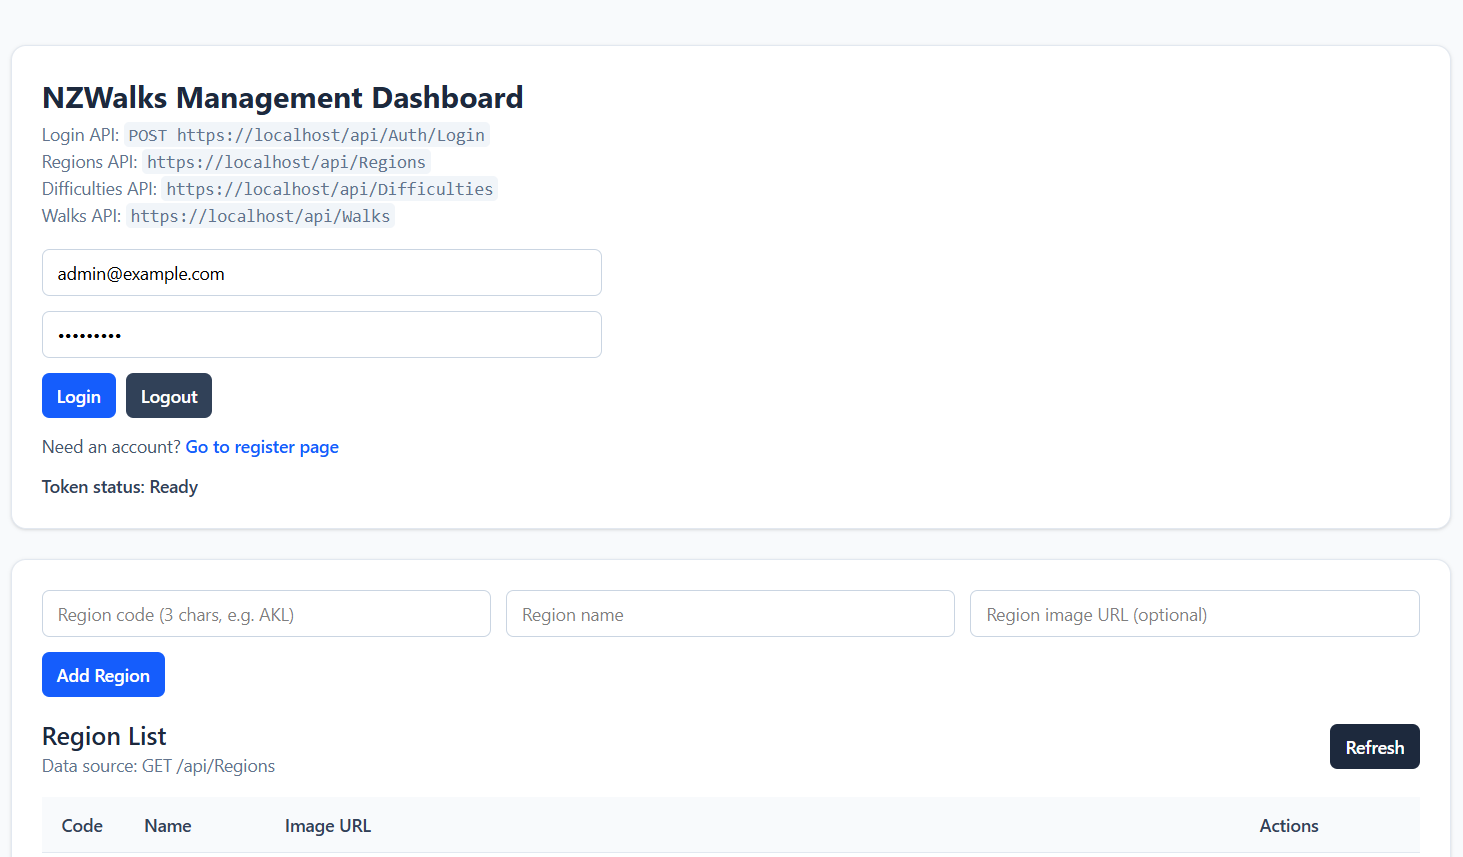
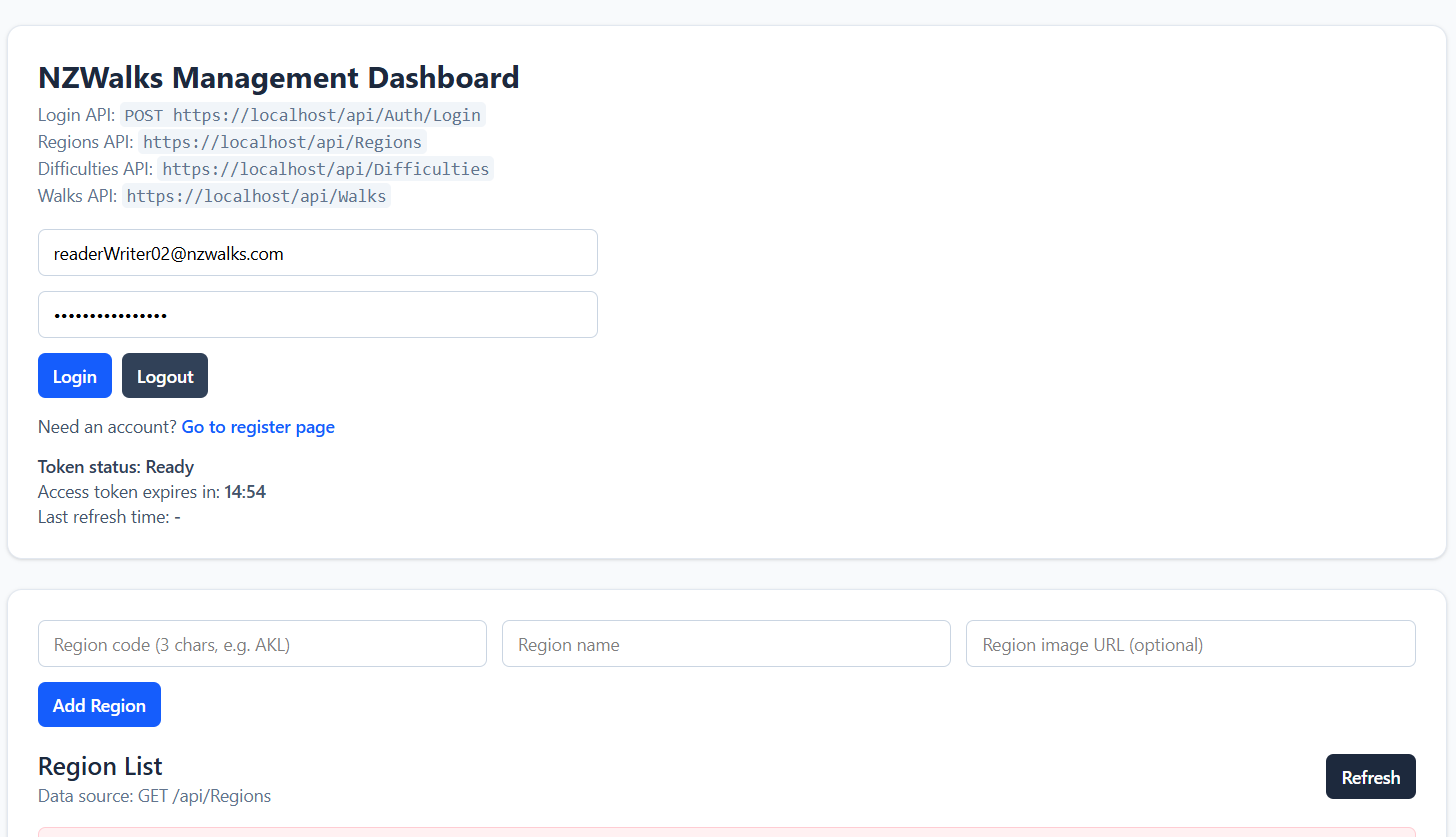
1. 更新 README.md 檔案。

Changed region(s): [[0.0, 0.6523, 0.989, 1.0], [0.0, 0.0621, 0.4018, 0.6213]]

diff --git a/README.md b/README.md
@@ -1,6 +1,7 @@
 # NZWalks
 
-ASP.NET Core Web API + React (Vite + TypeScript) full-stack project for managing NZ regions, walk difficulties, and walks.
+NZWalks is a full-stack project built with ASP.NET Core Web API and React (Vite + TypeScript) for managing NZ regions, walk difficulties, and walks.  
+It includes role-based authorization, JWT + Refresh Token authentication, and a dashboard-style frontend for CRUD operations.
 
 ## Project Structure
 
@@ -10,18 +11,63 @@ ASP.NET Core Web API + React (Vite + TypeScript) full-stack project for managing
 - `docker-compose.yml` - Multi-container local deployment (nginx + api + mssql)
 - `logs/` - Runtime logs for API, Nginx, and MSSQL
 
-## Features
+## Core Features
 
 - JWT Login/Register (`/api/Auth/Login`, `/api/Auth/Register`)
+- Refresh token lifecycle:
+  - Auto refresh access token and refresh token (`/api/Auth/Refresh-Token`)
+  - Revoke refresh token on logout (`/api/Auth/Logout`)
 - Role-based API access (`Reader`, `Writer`, `Admin`)
 - CRUD UI for:
   - Regions
   - Difficulties
   - Walks
 - Toast notifications and loading skeletons
+- Token countdown and last-refresh time display in dashboard
 - Route-based frontend pages:
   - Dashboard (`/`)
   - Register (`/register`)
+
+## API Endpoint Summary
+
+### Auth
+
+| Method | Endpoint | Auth Required | Purpose |
+| --- | --- | --- | --- |
+| POST | `/api/Auth/Login` | No | Login and receive access + refresh token |
+| POST | `/api/Auth/Register` | No | Register new user (`Reader`/`Writer`) |
+| POST | `/api/Auth/Refresh-Token` | No | Exchange refresh token for new token pair |
+| POST | `/api/Auth/Logout` | Yes (`Bearer`) | Revoke refresh token and logout |
+
+### Regions
+
+| Method | Endpoint | Roles | Purpose |
+| --- | --- | --- | --- |
+| GET | `/api/Regions` | `Reader`, `Admin` | Get all regions |
+| GET | `/api/Regions/{id}` | `Reader`, `Admin` | Get region by id |
+| POST | `/api/Regions` | `Writer`, `Admin` | Create region |
+| PUT | `/api/Regions/{id}` | `Writer`, `Admin` | Update region |
+| DELETE | `/api/Regions/{id}` | `Writer`, `Admin` | Delete region |
+
+### Difficulties
+
+| Method | Endpoint | Roles | Purpose |
+| --- | --- | --- | --- |
+| GET | `/api/Difficulties` | `Reader`, `Admin` | Get all difficulties |
+| GET | `/api/Difficulties/{id}` | `Reader`, `Admin` | Get difficulty by id |
+| POST | `/api/Difficulties` | `Writer`, `Admin` | Create difficulty |
+| PUT | `/api/Difficulties/{id}` | `Writer`, `Admin` | Update difficulty |
+| DELETE | `/api/Difficulties/{id}` | `Writer`, `Admin` | Delete difficulty |
+
+### Walks
+
+| Method | Endpoint | Roles | Purpose |
+| --- | --- | --- | --- |
+| GET | `/api/Walks` | No (AllowAnonymous) | Get walk list (supports filter/sort/page) |
+| GET | `/api/Walks/{id}` | No (AllowAnonymous) | Get walk by id |
+| POST | `/api/Walks` | `Writer`, `Admin` | Create walk |
+| PUT | `/api/Walks/{id}` | `Writer`, `Admin` | Update walk |
+| DELETE | `/api/Walks/{id}` | `Admin` | Delete walk |
 
 ## Local Development
 
@@ -67,6 +113,15 @@ This is configured in:
 
 If needed, you can override with `VITE_API_BASE_URL`.
 
+## Authentication Flow (Frontend)
+
+The frontend implements token handling in `frontend/nz-walks-ui/src/services/authService.ts`:
+
+1. Login stores both `jwtToken` and `refreshToken` in local storage.
+2. A timer auto-refreshes tokens before JWT expiry.
+3. If an API call returns `401`, Axios interceptor tries refresh and retries once.
+4. Logout calls `/api/Auth/Logout` to revoke refresh token, then clears local auth state.
+
 ## Docker Deployment
 
 Root `docker-compose.yml` defines:
@@ -89,6 +144,7 @@ Note: compose uses many values from env variables (`ENV_FILE_PATH`, ports, image
 - If dropdown options are empty in walk form, check:
   - user is logged in
   - JWT token exists in browser local storage
+  - refresh token exists in browser local storage
   - account has correct roles
 
 ## Useful Paths
@@ -96,10 +152,11 @@ Note: compose uses many values from env variables (`ENV_FILE_PATH`, ports, image
 - Backend entry: `api/NZWalks.API/Program.cs`
 - Frontend dashboard: `frontend/nz-walks-ui/src/pages/Dashboard.tsx`
 - Frontend register page: `frontend/nz-walks-ui/src/pages/RegisterPage.tsx`
+- Frontend auth service: `frontend/nz-walks-ui/src/services/authService.ts`
+- Frontend API client/interceptor: `frontend/nz-walks-ui/src/services/apiClient.ts`
+- Frontend token constants: `frontend/nz-walks-ui/src/constants/auth.ts`
 
 ## Showcase
-
-> Update the image paths below with your actual files.
 
 ### Dashboard
 
